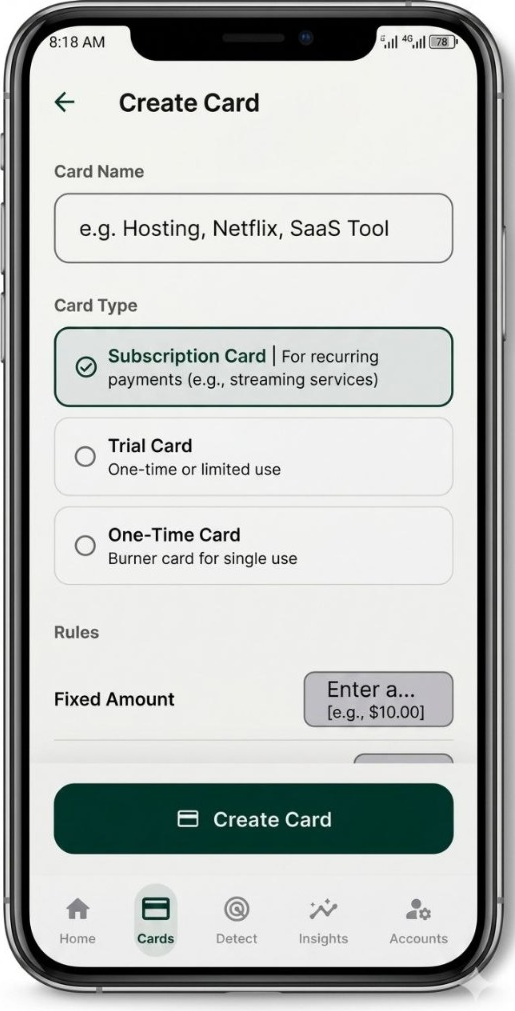
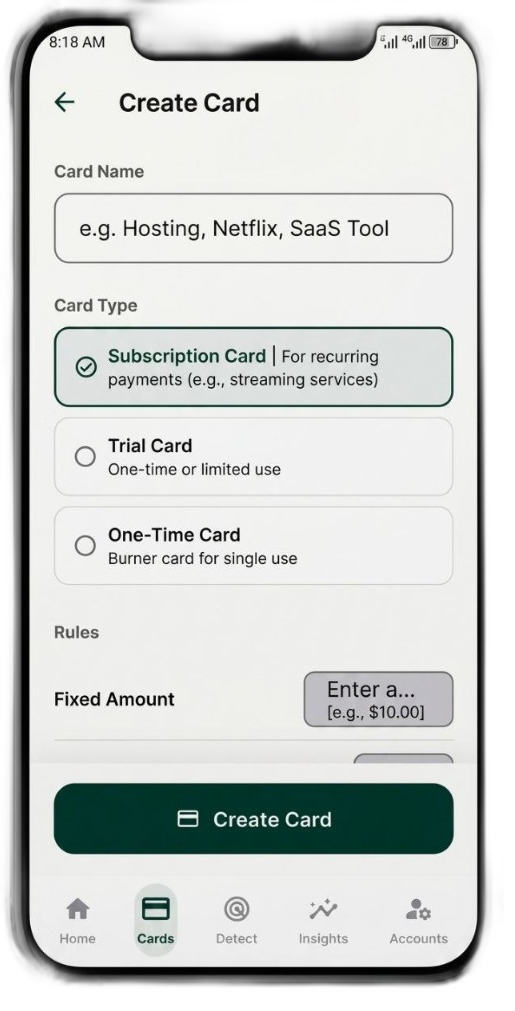
Use AI to perfectly strip gray physical backgrounds from original mockups, removing need for mix-blend-multiply

Changed region(s): [[0.0, 0.0, 1.0, 1.0]]

diff --git a/src/components/HowItWorksSection.tsx b/src/components/HowItWorksSection.tsx
@@ -95,7 +95,7 @@ const HowItWorksSection = () => {
                src="/create_card_screen.png"
                alt="Gatekipa App - Create a card interface"
                fill
-               className="object-contain p-4 drop-shadow-2xl mix-blend-multiply"
+               className="object-contain p-4 drop-shadow-2xl"
              />
           </div>
         </div>

diff --git a/src/components/FeaturesSection.tsx b/src/components/FeaturesSection.tsx
@@ -110,7 +110,7 @@ const FeaturesSection = () => {
                src="/vault_balance.png"
                alt="Gatekipa Built to Control - Vault Balance"
                fill
-               className="object-contain p-4 drop-shadow-2xl mix-blend-multiply"
+               className="object-contain p-4 drop-shadow-2xl"
              />
           </div>
         </div>

diff --git a/src/components/SecuritySection.tsx b/src/components/SecuritySection.tsx
@@ -64,7 +64,7 @@ const SecuritySection = () => {
                src="/detect_screen.png"
                alt="Gatekipa Protected Money Vault - Detect Screen"
                fill
-               className="object-contain p-4 drop-shadow-2xl mix-blend-multiply"
+               className="object-contain p-4 drop-shadow-2xl"
              />
           </div>
 
